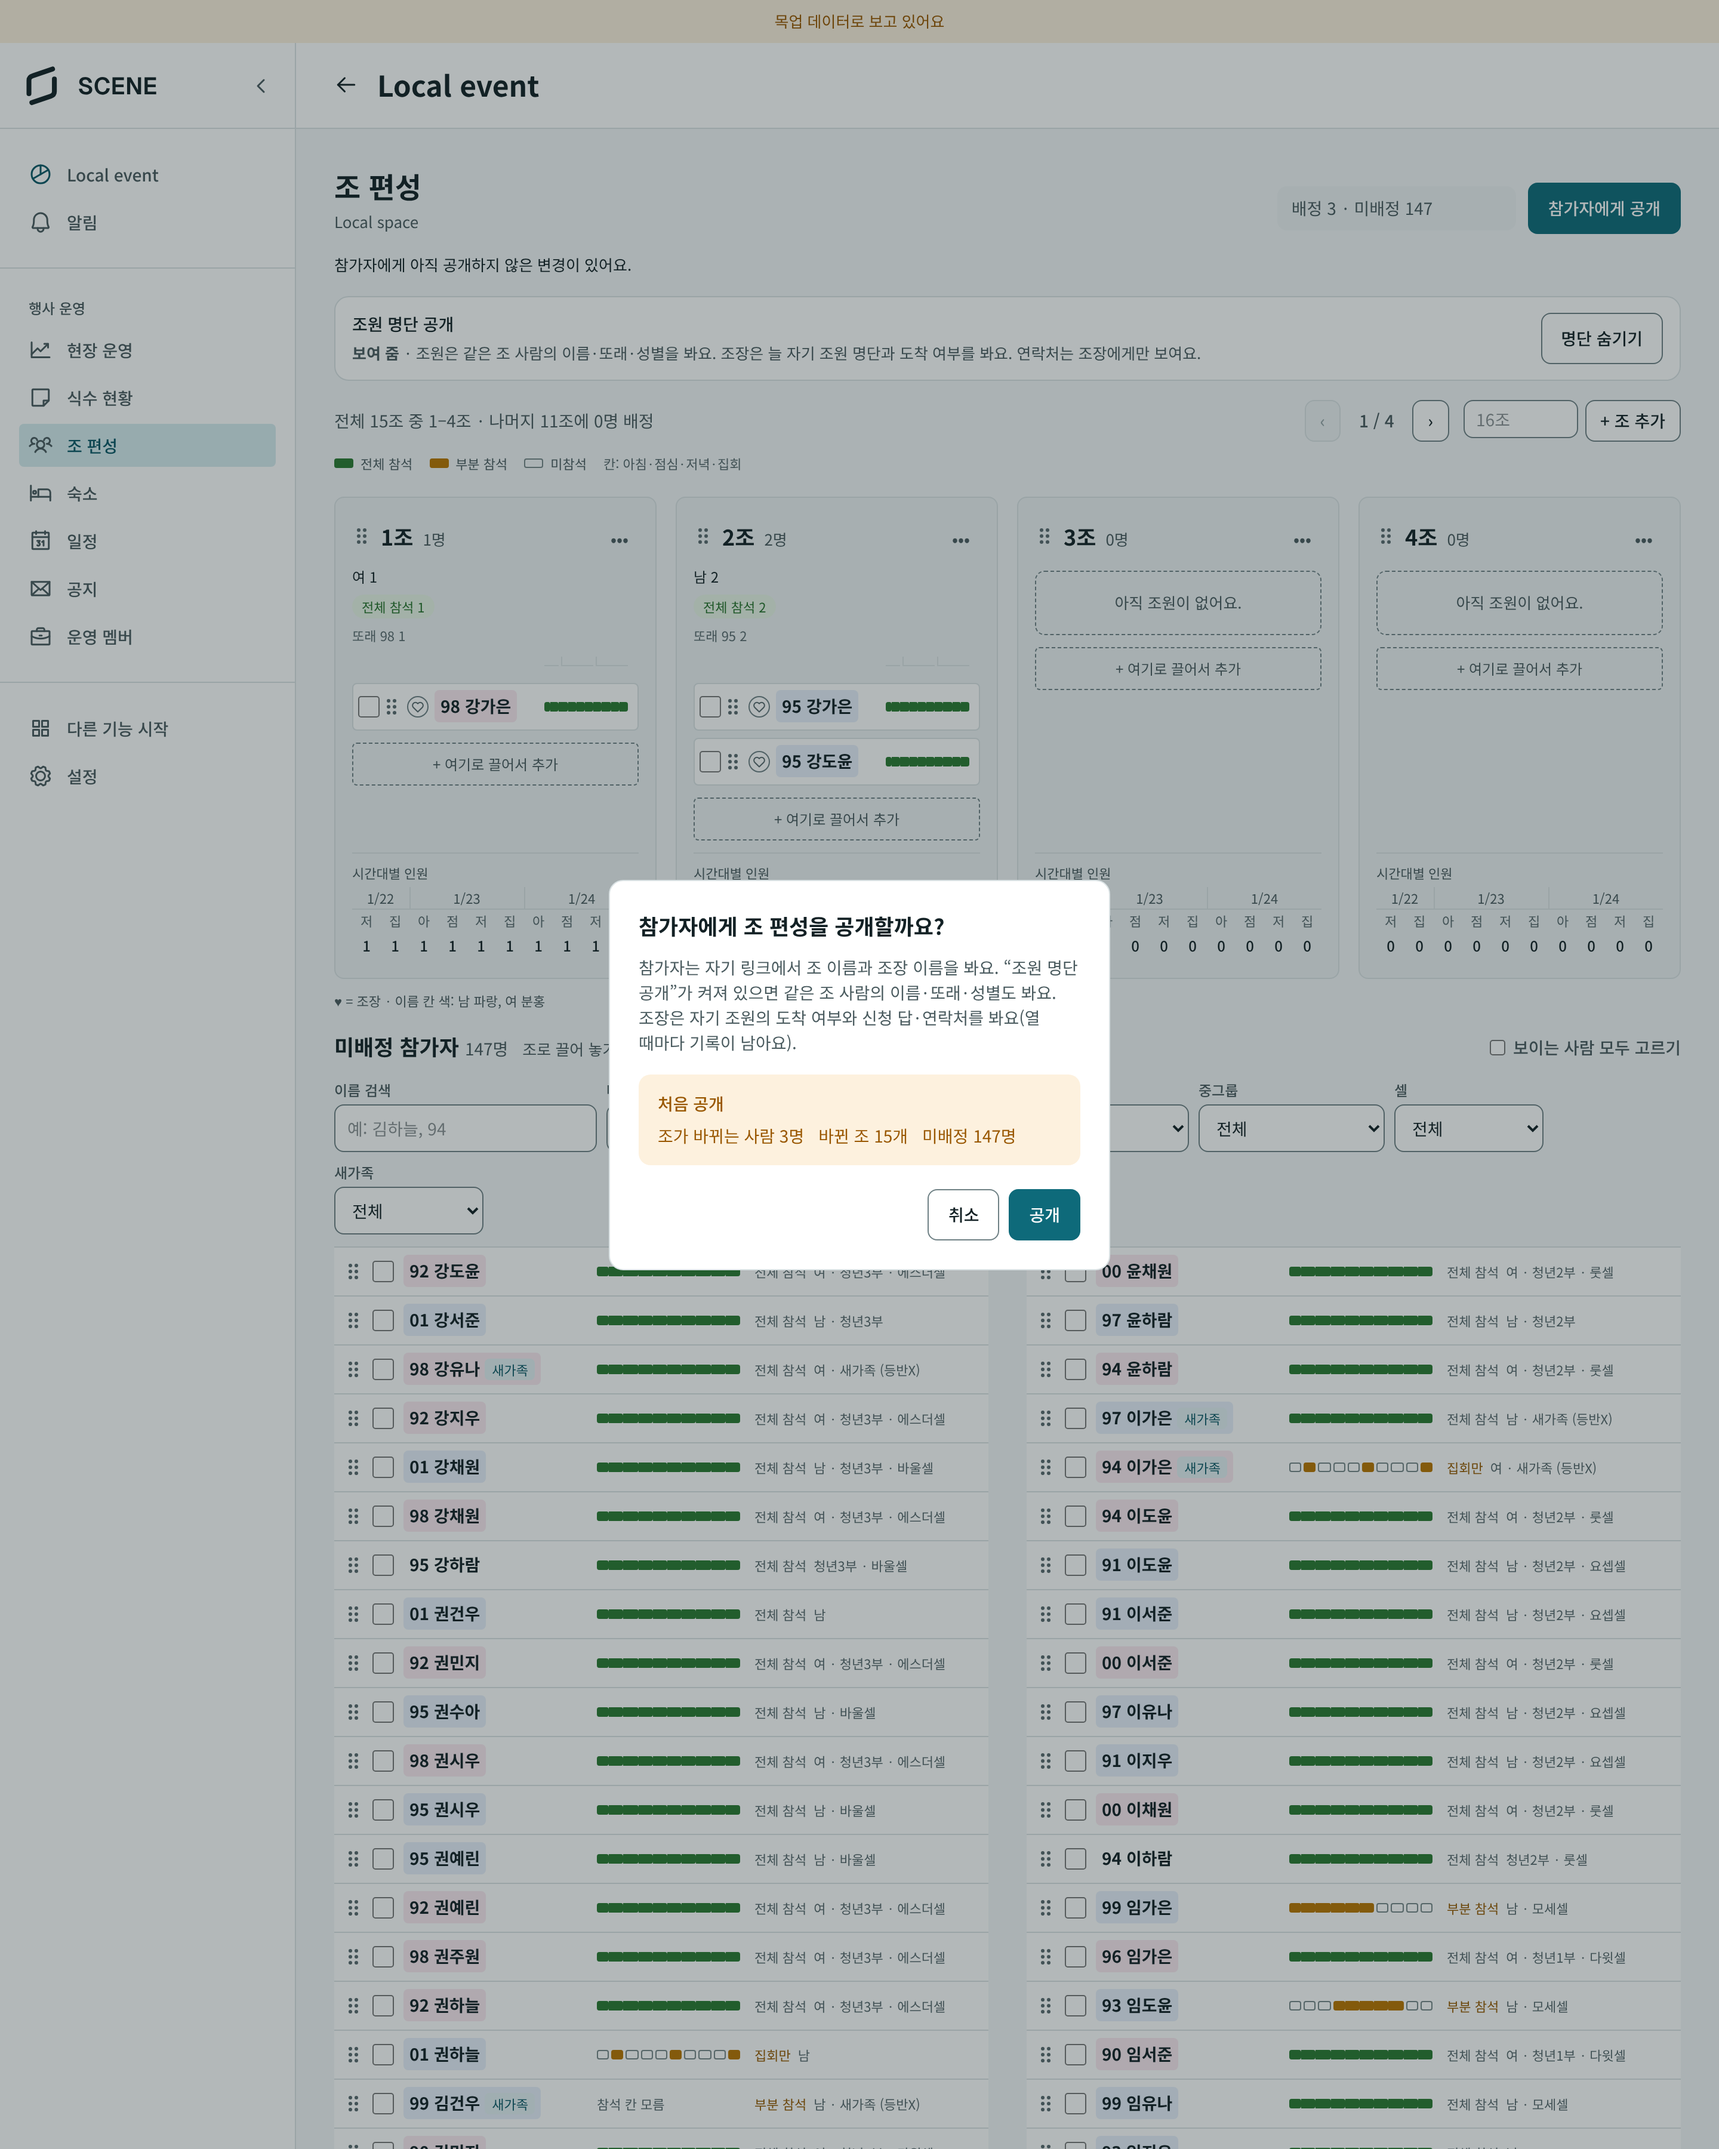
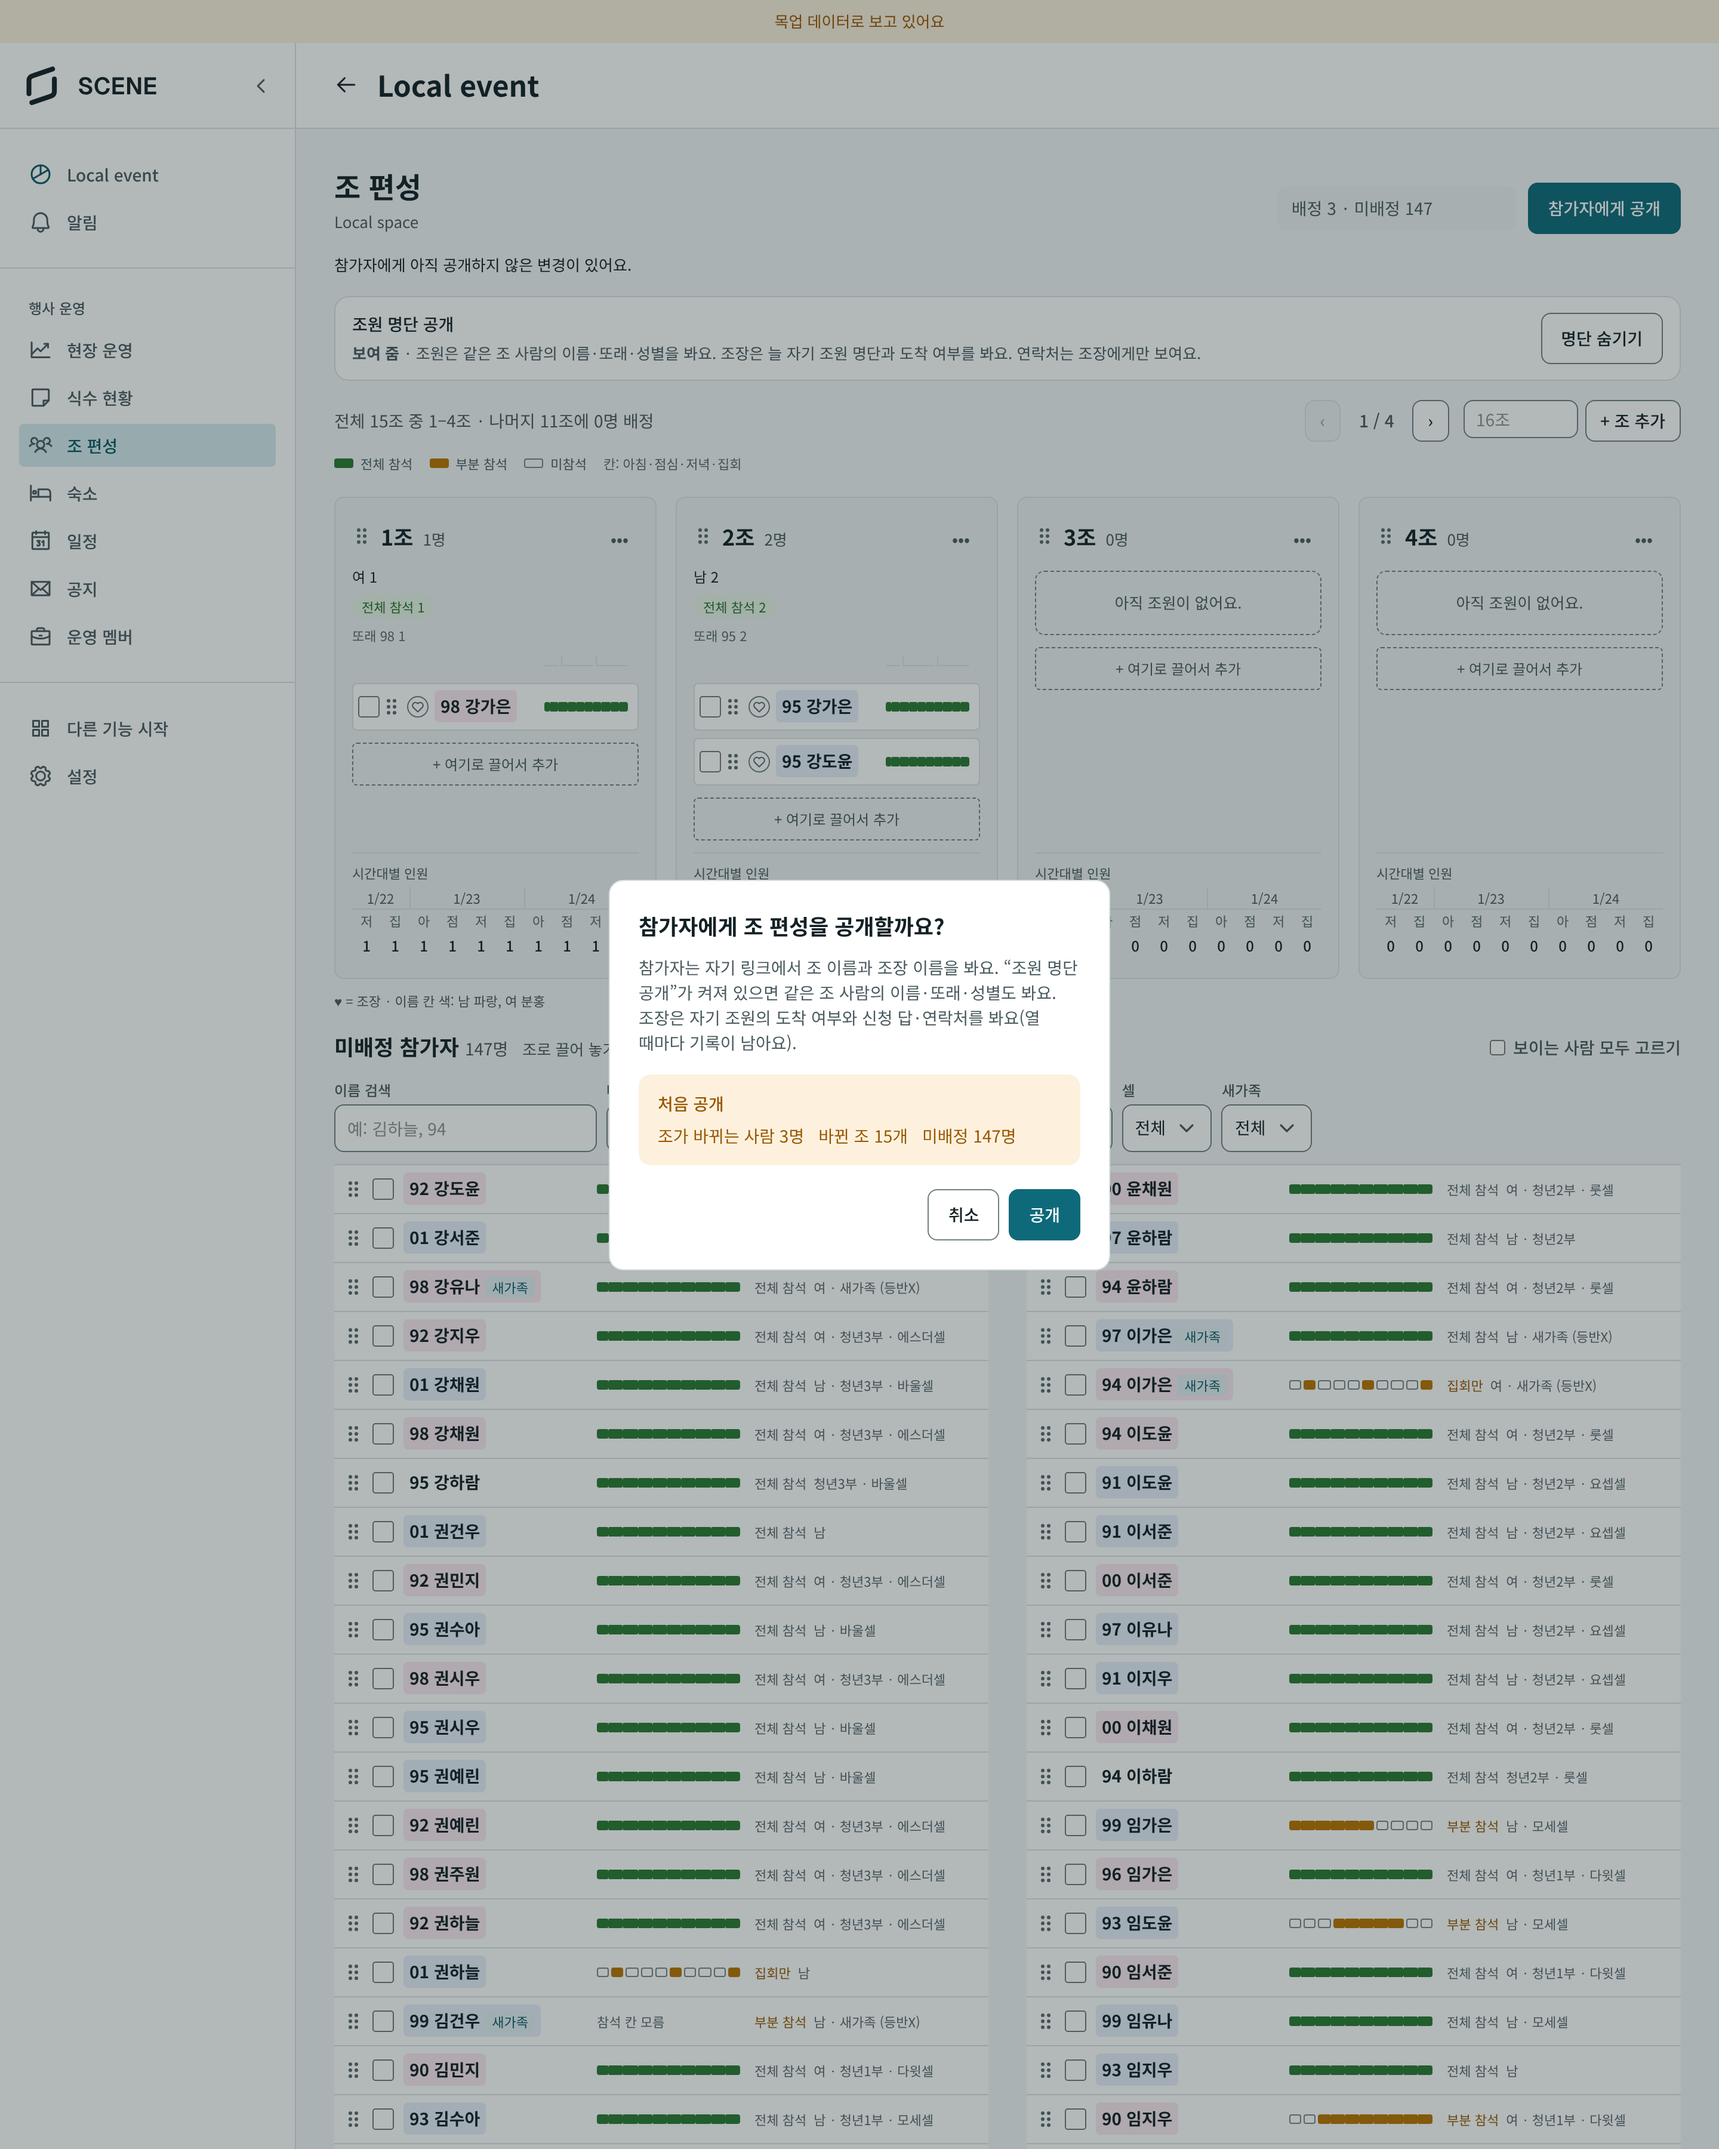
미배정 행에 공용 눌림 규칙을 쓰고, main merge 뒤 캡처·클릭 기록을 다시 남긴다 (#496)
#491로 들어온 pressable.css의 scene-press--row를 미배정 행에 붙이고 화면 자체 hover 규칙을 걷는다.
고른 행 바탕(bg/selected)이 hover보다 이기도록 선택자를 더 구체적으로 쓴다. #492 공용 Select에 맞춰
클릭 스크립트를 고치고 전 과정(끌기·이름 눌러 고르기·보내기·공개)을 다시 확인했다.

Claude-Session: https://claude.ai/code/session_019gxRjBRqY6EdZ8PvLeXMwE

Changed region(s): [[0.5938, 0.5289, 0.9688, 1.0], [0.1875, 0.5289, 0.5625, 1.0], [0.6875, 0.4978, 0.75, 0.5289]]

diff --git a/frontend/src/components/EventGroups.css b/frontend/src/components/EventGroups.css
@@ -683,7 +683,8 @@ body.event-groups--dragging {
   background: var(--color-bg-selected);
 }
 
-.event-groups__pool-card.event-groups__pool-card--checked {
+/* 공용 scene-press--row hover(pressable.css)보다 고른 행의 바탕이 이기도록 한 단계 더 구체적으로 쓴다. */
+.event-groups__people > li > .event-groups__pool-card.event-groups__pool-card--checked {
   background: var(--color-bg-selected);
 }
 
@@ -1009,14 +1010,6 @@ body.event-groups--dragging {
   .event-groups__pool-card > .event-rooms__blocked-note {
     grid-column: 1 / -1;
   }
-}
-
-.event-groups__pool-card--selectable {
-  cursor: pointer;
-}
-
-.event-groups__pool-card--selectable:hover {
-  background: var(--color-bg-hover-row);
 }
 
 .event-groups__card-name {

diff --git a/frontend/src/components/EventRooms.tsx b/frontend/src/components/EventRooms.tsx
@@ -1690,7 +1690,7 @@ function PoolCard({
   if (!canPick) return <div className={`event-groups__pool-card${blockedHere ? " event-rooms__pool-card--blocked" : ""}`}>{body}</div>;
   return (
     <label
-      className={`event-groups__pool-card event-groups__pool-card--selectable${checked ? " event-groups__pool-card--checked" : ""}${dragging ? " event-groups__pool-card--dragging" : ""}`}
+      className={`event-groups__pool-card event-groups__pool-card--selectable scene-press scene-press--row${checked ? " event-groups__pool-card--checked" : ""}${dragging ? " event-groups__pool-card--dragging" : ""}`}
       onPointerDown={(event) => onStart(event, false)}
     >
       {body}

diff --git a/frontend/src/components/EventGroups.tsx b/frontend/src/components/EventGroups.tsx
@@ -1217,7 +1217,7 @@ function PoolCard({
   if (!selectable) return <div className="event-groups__pool-card">{body}</div>;
   return (
     <label
-      className={`event-groups__pool-card event-groups__pool-card--selectable${checked ? " event-groups__pool-card--checked" : ""}${dragging ? " event-groups__pool-card--dragging" : ""}`}
+      className={`event-groups__pool-card event-groups__pool-card--selectable scene-press scene-press--row${checked ? " event-groups__pool-card--checked" : ""}${dragging ? " event-groups__pool-card--dragging" : ""}`}
       onPointerDown={(event) => onStart(event, false)}
     >
       {body}

diff --git a/docs/test_results/496-groups-rooms-cleanup/README.md b/docs/test_results/496-groups-rooms-cleanup/README.md
@@ -1,6 +1,6 @@
 # 조 편성·숙소 군더더기 정리 (#496)
 
-2026-11-25 · 브랜치 `fix/groups-rooms-cleanup` (`origin/main` `98fb4b1`에서 시작) · 목업 서버(`VITE_API_MOCK=1 pnpm dev`) + 미리 설치된 Playwright
+2026-11-25 · 브랜치 `fix/groups-rooms-cleanup` (`origin/main` `98fb4b1`에서 시작, 끝에 `46a34bc`(#491 눌림 규칙·#492 공용 Select)를 merge) · 목업 서버(`VITE_API_MOCK=1 pnpm dev`) + 미리 설치된 Playwright
 
 #483 조사의 제안 #9·#10·#11과 (h) "숙소 미배정 카드 6열"을 사용자 결정("전부 진행해")에 따라 고쳤다.
 
@@ -25,10 +25,10 @@
 
 | 상태 | 1440 전 → 후 | 390 전 → 후 |
 |---|---|---|
-| 조 편성, 150명·15조 | 3940 → 4090 | 18026 → 11784 |
-| 숙소, 방 8개·미배정 139명 | 4257 → 4285 | 20546 → 14293 |
-| 조 편성, 기본 시드 | 936 → 936 | 2341 → 1827 |
-| 숙소, 방 없음(빈 상태) | 951 → 936 | 2348 → 1810 |
+| 조 편성, 150명·15조 | 3940 → 4021 | 18026 → 11727 |
+| 숙소, 방 8개·미배정 139명 | 4257 → 4285 | 20546 → 14232 |
+| 조 편성, 기본 시드 | 936 → 936 | 2341 → 1770 |
+| 숙소, 방 없음(빈 상태) | 951 → 936 | 2348 → 1749 |
 
 1440에서는 길이가 거의 같고(카드 6열 ≈ 행 두 단) 테두리 박스 150개가 사라졌다. 390에서는 3분의 1가량 줄었다.
 
@@ -45,16 +45,17 @@
 ## 구현 메모
 
 - 손잡이(button)는 DOM에서 체크박스 뒤에 두고 CSS `order: -1`로 맨 앞에 보인다. 손잡이를 DOM 앞에 두면 이름(label)을 누를 때 label의 첫 입력인 손잡이 버튼이 눌려 "이름을 눌러 고르기"가 깨진다(테스트 `moves several people at once from the bar…`가 잡았다).
+- 고를 수 있는 행은 #491의 공용 눌림 규칙 `scene-press scene-press--row`(hover `bg/hover-row`, 눌림 `bg/subtle`)를 쓴다. 고른 행의 `bg/selected`가 hover보다 이기도록 선택자를 한 단계 더 구체적으로 썼다.
 - 숙소의 숙박 안 하는 사람 행은 그대로 고르기·손잡이 없이 흐리게, "방에 넣을 수 없어요"를 같은 줄 끝에 보인다(DEC-085 동작 유지).
 
 ## 검증
 
 | 구분 | 결과 |
 |---|---|
-| 자동 검사 | `pnpm typecheck` 통과 · `pnpm lint` 통과 · `pnpm test` **102개 파일 · 769개 테스트 통과** |
+| 자동 검사 | `pnpm typecheck` 통과 · `pnpm lint` 통과 · `pnpm test` **103개 파일 · 781개 테스트 통과**(`origin/main` `46a34bc` merge 뒤) |
 | 테스트 보강 | 조 편성: 뒤로 화살표("행사 홈으로")만 있고 "행사 홈" 링크·"바로 저장되지만" 없음 / 공개 전 "참가자에게 아직 공개하지 않은 변경이 있어요."만 있고 "아직 공개하지 않았어요." 없음. 숙소: "아직 방이 없어요" 한 번, "행사 홈" 링크 없음, "바로 저장되지만·경고만 보여요" 없음 |
 | 캡처 | `shots.mjs` → `before/`·`after/` (1440·390, deviceScaleFactor 2, 전체 페이지). 사람 많은 상태(`?mockGroups=150&mockGroupCount=15`, 숙소는 방 8개)와 빈 상태(기본 시드, 방 없음) |
-| 목업 실제 클릭 | `click-check.mjs` → `click-check.log`, `after/click-*.png` (1440×1800). 두 화면 각각: 미배정 첫 행을 끌어 첫 조/방에 놓기 → "1명을 1조로 보냈어요."·"98 강가은을 301호에 넣었어요." / 체크박스 2명 + 이름 눌러 1명 더 → "3명 골랐어요" / 2명 골라 하단 막대로 보내기 → "2명을 2조로 보냈어요."·"2명을 302호에 넣었어요." / "참가자에게 공개" → 확인 다이얼로그 → "참가자에게 공개했어요."·"참가자에게 숙소를 공개했어요.", 안내 줄이 "마지막 공개 …"로 바뀜 |
+| 목업 실제 클릭 | `click-check.mjs` → `click-check.log`, `after/click-*.png` (1440×1800, 보낼 조/방은 공용 Select로 고름). 두 화면 각각: 미배정 첫 행을 끌어 첫 조/방에 놓기 → "1명을 1조로 보냈어요."·"98 강가은을 301호에 넣었어요." / 체크박스 2명 + 이름 눌러 1명 더 → "3명 골랐어요" / 2명 골라 하단 막대로 보내기 → "2명을 2조로 보냈어요."·"2명을 302호에 넣었어요." / "참가자에게 공개" → 확인 다이얼로그 → "참가자에게 공개했어요."·"참가자에게 숙소를 공개했어요.", 안내 줄이 "마지막 공개 …"로 바뀜 |
 | 하지 않은 것 | 휴대폰 터치 끌기(손잡이)는 실제로 눌러 보지 않았다(코드 경로는 바뀌지 않음, 손잡이 위치만 CSS로 이동). 서버(백엔드) 검증 없음(API 변화 없음) |
 
 ## 대표 스크린샷
